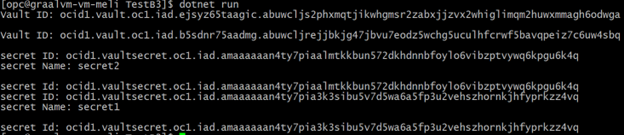
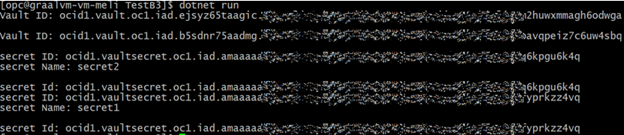
3 commit

diff --git a/Program.cs b/Program.cs
@@ -1,0 +1,63 @@
+using System;
+using System.Threading.Tasks;
+using Oci.Common;
+using Oci.Common.Auth;
+using Oci.VaultService;
+using Oci.VaultService.Requests;
+using Oci.KeymanagementService;
+using Oci.KeymanagementService.Requests;
+
+class Program
+{
+    static async Task Main(string[] args)
+    {
+        try
+        {
+            // Instance Principal Authentication Provider
+            var provider = new InstancePrincipalsAuthenticationDetailsProvider();
+
+            // Compartment OCID (replace with yours)
+            string compartmentId = "ocid1.compartment.oc1..xxxxxxxxxxxxxxxxxxxxxxxxxxxxxxxxxxxx";
+
+            // --- List Vaults (KMS Vault Client) ---
+            var kmsVaultClient = new KmsVaultClient(provider, new ClientConfiguration());
+
+            var listVaultsRequest = new ListVaultsRequest
+            {
+                CompartmentId = compartmentId
+            };
+
+            var vaultsResponse = await kmsVaultClient.ListVaults(listVaultsRequest);
+
+            Console.WriteLine("=== VAULTS ===");
+            foreach (var vault in vaultsResponse.Items)
+            {
+                Console.WriteLine($"Vault ID: {vault.Id}");
+                Console.WriteLine($"Vault Name: {vault.DisplayName}");
+                Console.WriteLine();
+            }
+
+            // --- List Secrets (Vaults Client) ---
+            var vaultsClient = new VaultsClient(provider, new ClientConfiguration());
+
+            var listSecretsRequest = new ListSecretsRequest
+            {
+                CompartmentId = compartmentId
+            };
+
+            var secretsResponse = await vaultsClient.ListSecrets(listSecretsRequest);
+
+            Console.WriteLine("=== SECRETS ===");
+            foreach (var secret in secretsResponse.Items)
+            {
+                Console.WriteLine($"Secret ID: {secret.Id}");
+                Console.WriteLine($"Secret Name: {secret.SecretName}");
+                Console.WriteLine();
+            }
+        }
+        catch (Exception ex)
+        {
+            Console.WriteLine($"Error: {ex.Message}");
+        }
+    }
+}

diff --git a/README.md b/README.md
@@ -1,1 +1,258 @@
-# OCI-Instance-Principals
+# Secure OCI Access with Instance Principals: CLI and .NET Examples for Vault and Secrets
+
+## Introduction
+
+This tutorial explains how to use **OCI Instance Principals** to allow an **Oracle Linux Compute VM** to access OCI services **without using an OCI CLI config file** (no API keys on disk).  
+
+It also includes a practical **OCI .NET SDK** example that authenticates using Instance Principals and lists **Vaults** and **Secrets**.
+
+> **Typical use case:** Integrations running on a VM (for example, agents, scripts, or middleware related to OIC) that need secure access to OCI resources using the VM identity.
+
+---
+
+## Prerequisites
+
+- An **OCI Compute Instance** already created (Oracle Linux recommended).
+- Access to OCI Console to create:
+  - Dynamic Group
+  - IAM Policy
+- (Optional but recommended) **OCI CLI** installed for testing.
+- **.NET SDK** installed on the VM (for the C# example).
+
+---
+
+## Step 1 — Create a Dynamic Group
+
+1. Go to **OCI Console** → **Identity & Security** → **Dynamic Groups**
+2. Click **Create Dynamic Group**
+3. Give it a name, for example:
+   - `principal_instance_dg`
+
+   ![Dynamic Group](images/dynamic-group.png)
+
+### Dynamic Group Matching Rule
+
+Use the OCID of your VM instance:
+
+```
+All {instance.id = 'ocid1.instance.oc1.iad.<YOUR_INSTANCE_OCID>'}
+```
+
+## Step 2 — Create an IAM Policy
+
+1. Go to OCI Console → Identity & Security → Policies
+
+2. Choose the compartment where you want to grant access (or a higher-level compartment if needed)
+
+3. Click Create Policy
+
+Example Policy Statement
+
+```
+Allow dynamic-group principal_instance_dg to manage all-resources in compartment Developer_OCI
+```
+
+Replace:
+- principal_instance_dg with your Dynamic Group name
+
+- Developer_OCI with your target compartment name
+
+**Note: For production, avoid manage all-resources. Use the minimum permissions required (least privilege).**
+
+## Step 3 — Test with OCI CLI (Recommended)
+
+1. Make sure you have OCI-CLI Installed for testing
+
+If you already have a working OCI CLI configuration file, comment out the key_file parameter and rerun the commands. The commands will fail because OCI authentication through the configuration file is no longer being used.
+
+![config_file](images/config-hide-key.png)
+
+![command-oci-cli](images/oci-cli-command.png)
+
+2. Validate that config-based auth is NOT required (Instance Principal)
+
+Now temporarily comment/remove your config usage (or run without config) and test again.
+
+With Instance Principals, you should run commands using the auth flag:
+
+
+```
+oci os ns get --auth instance_principal
+
+```
+If your Dynamic Group + Policy are correct, this will work without requiring ~/.oci/config.
+
+![instance-principal](images/oci-cli-instance-principal.png)
+
+This proves the VM identity (Instance Principal) is being used.
+
+## Step 4 — OCI .NET SDK Using Instance Principals
+
+Instance Principals in the OCI .NET SDK work the same way:
+
+- Instead of API keys/config file authentication, the SDK uses the VM identity.
+
+- The code runs on the VM that you authorized via Dynamic Group and Policy.
+
+Below is a sample .NET app that:
+
+- Authenticates using Instance Principals
+
+- Lists Vaults
+
+- Lists Secrets
+
+1. .NET Example — List Vaults and Secrets
+- Create a Console Project
+
+
+```
+dotnet new console -n OciInstancePrincipalDemo
+cd OciInstancePrincipalDemo
+
+```
+
+2. Add OCI SDK Packages
+
+**Note: Package names can vary depending on OCI SDK version. Add what your project needs.**
+
+```
+dotnet add package OCI.DotNetSDK.Common
+dotnet add package OCI.DotNetSDK.Vault
+dotnet add package OCI.DotNetSDK.Keymanagement
+dotnet add package OCI.DotNetSDK.Identity
+```
+
+3. Update ´Program.cs´
+Replace the compartment OCID with yours.
+
+```
+using System;
+using System.Threading.Tasks;
+using Oci.Common;
+using Oci.Common.Auth;
+using Oci.VaultService;
+using Oci.VaultService.Requests;
+using Oci.KeymanagementService;
+using Oci.KeymanagementService.Requests;
+
+class Program
+{
+    static async Task Main(string[] args)
+    {
+        try
+        {
+            // Instance Principal Authentication Provider
+            var provider = new InstancePrincipalsAuthenticationDetailsProvider();
+
+            // Compartment OCID (replace with yours)
+            string compartmentId = "ocid1.compartment.oc1..xxxxxxxxxxxxxxxxxxxxxxxxx";
+
+            // --- List Vaults (KMS Vault Client) ---
+            var kmsVaultClient = new KmsVaultClient(provider, new ClientConfiguration());
+
+            var listVaultsRequest = new ListVaultsRequest
+            {
+                CompartmentId = compartmentId
+            };
+
+            var vaultsResponse = await kmsVaultClient.ListVaults(listVaultsRequest);
+
+            Console.WriteLine("=== VAULTS ===");
+            foreach (var vault in vaultsResponse.Items)
+            {
+                Console.WriteLine($"Vault ID: {vault.Id}");
+                Console.WriteLine($"Vault Name: {vault.DisplayName}");
+                Console.WriteLine();
+            }
+
+            // --- List Secrets (Vaults Client) ---
+            var vaultsClient = new VaultsClient(provider, new ClientConfiguration());
+
+            var listSecretsRequest = new ListSecretsRequest
+            {
+                CompartmentId = compartmentId
+            };
+
+            var secretsResponse = await vaultsClient.ListSecrets(listSecretsRequest);
+
+            Console.WriteLine("=== SECRETS ===");
+            foreach (var secret in secretsResponse.Items)
+            {
+                Console.WriteLine($"Secret ID: {secret.Id}");
+                Console.WriteLine($"Secret Name: {secret.SecretName}");
+                Console.WriteLine();
+            }
+        }
+        catch (Exception ex)
+        {
+            Console.WriteLine($"Error: {ex.Message}");
+        }
+    }
+}
+```
+
+
+4. Build and Run
+
+```
+dotnet build
+dotnet run
+```
+![build donet](images/donet-build.png)
+
+![run donet](images/donet-run.png)
+
+
+Expected output:
+
+- A list of Vaults in the compartment
+
+- A list of Secrets in the compartment
+
+
+
+
+## Troubleshooting
+1) NotAuthorizedOrNotFound / 403 Forbidden
+
+Confirm the Dynamic Group rule uses the correct instance OCID
+
+Confirm the Policy is created in the correct place (tenancy vs compartment)
+
+Confirm the policy grants permissions to the correct compartment
+
+2) CLI works with config but not with Instance Principals
+
+Make sure you include:
+
+--auth instance_principal
+
+
+Check that the VM can reach OCI services (network/DNS/proxy)
+
+3) .NET app fails but CLI works
+
+Ensure the app runs on the same VM that has Instance Principal permissions
+
+Verify the required OCI SDK packages are installed
+
+Conclusion
+
+With OCI Instance Principals, you can securely grant a Compute VM access to OCI services without storing API keys locally.
+
+In this demo:
+
+- A Dynamic Group was created to identify the VM
+
+- A Policy granted access to a compartment
+
+- OCI CLI was validated using --auth instance_principal
+
+- A .NET app successfully connected using Instance Principals and listed Vaults and Secrets
+
+**Author**
+
+**Ivan Vasquez**
+LAD A-Team Cloud Solution Specialist
+Oracle Cloud Infrastructure (OCI)
